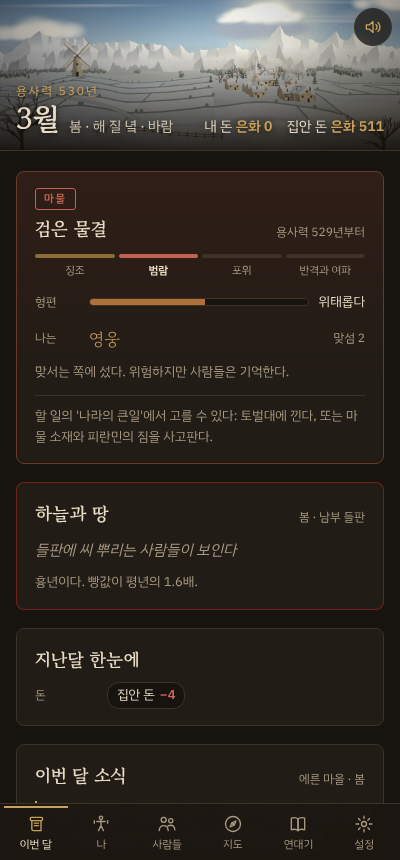
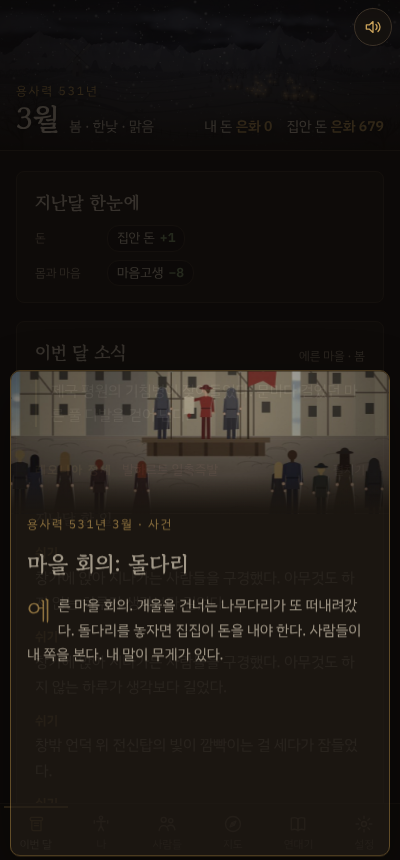
병과 의술: 깊어진 병만 묻기, 장면 앞세우지 않기, 장사 시험 형편 붙잡기·돈 재는 때 고정
Claude-Session: https://claude.ai/code/session_01Qt87VJd7UsGAJZvecFeqo5

diff --git a/src/health/life.js b/src/health/life.js
@@ -40,8 +40,15 @@ export function fallSick(g, kind, who, rng, sev = null) {
   H.sick.push(s);
   if (who === 'me') { note(g, `${J(K.name, '을/를')} 앓기 시작했다.`); hlog(g, `${J(K.name, '을/를')} 앓기 시작했다.`); }
   else hlog(g, `${byId(g, who)?.name ?? '식구'}, ${J(K.name, '을/를')} 앓다.`);
-  if (!sceneQueued(g, 'health_treat') && (who === 'me' ? playerAge(g) >= 12 : playerAge(g) >= 14)) queueScene(g, 'health_treat', { sid: s.id, quack: rng.chance(0.35) }, { first: who === 'me' });
+  askTreat(g, s, rng);
   return s;
+}
+// 병이 깊어지면 한 번 묻는다: 누구에게 맡길까 (가벼운 병은 묻지 않고 지나간다. 행동 '치료 구하기'로는 언제든 물을 수 있다)
+function askTreat(g, s, rng) {
+  if (s.asked || s.sev < 35 || sceneQueued(g, 'health_treat')) return;
+  if (s.who === 'me' ? playerAge(g) < 12 : playerAge(g) < 14) return;
+  s.asked = true;
+  queueScene(g, 'health_treat', { sid: s.id, quack: rng.chance(0.35) });
 }
 // 낫지 않는 것이 남는다
 export function addChronic(g, id, from = null) {
@@ -93,7 +100,6 @@ const TREAT_TEXT = {
   rest: '아무에게도 맡기지 않았다. 문을 닫고 누워 몸이 이기기를 기다렸다.',
 };
 defineScene('health_treat', {
-  keep: true,
   need: (g, s) => !!sickById(g, s.sid) && (sickById(g, s.sid).who === 'me' || !!byId(g, sickById(g, s.sid).who)?.alive),
   title: (g, s) => { const x = sickById(g, s.sid); return x.who === 'me' ? KINDS[x.kind].name : `${whoName(g, x)}의 ${KINDS[x.kind].name}`; },
   text: (g, s) => {
@@ -173,7 +179,7 @@ ACTIONS.push({
 const WOUND = /베인|물린|찢|상처|부러|화살|칼|창|발톱|이빨/;
 function catchChance(g, o, who) {
   const p = g.player;
-  let c = o.sev * 0.2;
+  let c = o.sev * 0.15;
   if (who === 'me') {
     c *= 1.25 - Math.min(0.6, p.stats.str / 160 + p.stats.wil / 300);
     if (L(g).home === 'street') c *= 1.7;
@@ -226,6 +232,7 @@ HOOKS.afterMonth.push((g) => {
       } else { person.health = Math.max(15, (person.health ?? 70) - Math.round(s.peak / 8)); hlog(g, `${person.name}, ${J(K.name, '을/를')} 이겨 내다.`); }
     };
     if (s.sev <= 0) { done(true); continue; }
+    if (!L(g).travel && (s.who === 'me' || closeKin(g).some((k) => k.id === s.who))) askTreat(g, s, rng);
     // 고비: 병이 깊어지면 한 번, 목숨을 건 밤이 온다. 깊을수록, 맡긴 데가 없을수록 위태롭다.
     if (s.sev >= 70 && !s.crisis) {
       s.crisis = true;

diff --git a/tools/tradetest.js b/tools/tradetest.js
@@ -9,7 +9,7 @@ import '../src/content.js';
 // 7) 대 잇기, 옛 저장, 저절로 살아 보기, tradeStatus.
 import { newGame, endMonth, availableActions, slotsFor, playerAge, rngOf } from '../src/game.js';
 import { resolveEvent } from '../src/events.js';
-import { run as runHooks } from '../src/hooks.js';
+import { run as runHooks, HOOKS } from '../src/hooks.js';
 import { L, queueScene, SCENE_STRICT } from '../src/adventure/core.js';
 import { PLACES, travelMonths } from '../src/places.js';
 import { realmState } from '../src/realms/index.js';
@@ -72,11 +72,15 @@ function placeAt(g, place) { const l = L(g); l.place = place; l.travel = null; l
 const heal = (g) => { g.player.injuries = []; g.player.fatigue = 0; g.player.stress = 10; };
 function scene(g, kind, data, re, opt = {}) {
   let done = false, chose = null;
+  // 달 안에서 세상 흐름이 형편을 바꿔도(전쟁이 끝나는 등) 장면을 띄울 때는 붙잡아 둔 형편으로 본다
+  const hold = (h) => { if (h === g) opt.each?.(h); };
+  if (opt.each) HOOKS.endOfMonth.unshift(hold);
   for (let i = 0; i < 6 && !done && !g.over; i++) {
     opt.each?.(g); // 장면이 뜰 때까지 형편(전쟁·흉년)을 붙잡아 둔다
     if (!L(g).queue.some((x) => x.kind === kind) && L(g).scene?.kind !== kind) queueScene(g, kind, data, { first: true });
     month(g, opt.want ?? ['rest'], (k, labels) => { if (k !== kind) return opt.other?.(k, labels) ?? -1; done = true; const i2 = idxOf(labels, re); chose = i2 >= 0 ? labels[i2] : null; return i2; });
   }
+  if (opt.each) HOOKS.endOfMonth.splice(HOOKS.endOfMonth.indexOf(hold), 1);
   if (!done && !g.over) fail('scene never shown', kind, JSON.stringify(data), L(g).place, playerAge(g), JSON.stringify(L(g).queue.map((q) => q.kind)));
   if (done && !chose && !g.over) fail('choice not found', kind, re, JSON.stringify(data));
   return chose;
@@ -295,8 +299,10 @@ function go(g, to, pick = null) {
   placeAt(g, 'harfen');
   T(g).debts.push({ who: '시험 귀족', amt: 100, cost: 50, due: 0, odds: 1 });
   const m0 = g.player.money;
-  month(g, ['rest']);
+  // 외상값만 본다: 그달 뜬 사건·장면을 고르기 전에 잰다
+  endMonth(g, Array.from({ length: slotsFor(g) }, () => ({ id: 'rest' })));
   if (!(g.player.money >= m0 + 90)) fail('credit not paid', m0, g.player.money);
+  g.pendingEvent = null; L(g).scene = null;
 }
 
 /* ---------- 7) 대 잇기, 옛 저장, 저절로 ---------- */

diff --git a/tools/healthtest.js b/tools/healthtest.js
@@ -112,7 +112,7 @@ check(!!tick, '병의 세계 흐름을 못 찾았다');
   faithState(g).devotion = 95; const t1 = healPower(g, 'temple', 'lung'); faithState(g).devotion = 5; const t2 = healPower(g, 'temple', 'lung');
   check(t1 > t2, '믿음이 깊어도 신전 치유가 더 낫지 않다');
   g.player.skills.healing = 70;
-  const s = fallSick(g, 'rot', 'me', makeRng({ s: 1 }), 30);
+  const s = fallSick(g, 'rot', 'me', makeRng({ s: 1 }), 40);
   scene(g, 'health_treat', 'self_heal');
   check(s.treat?.by === 'self_heal' && s.treat.power > 0.4, '의원 솜씨로 스스로 고치지 못한다');
 }
